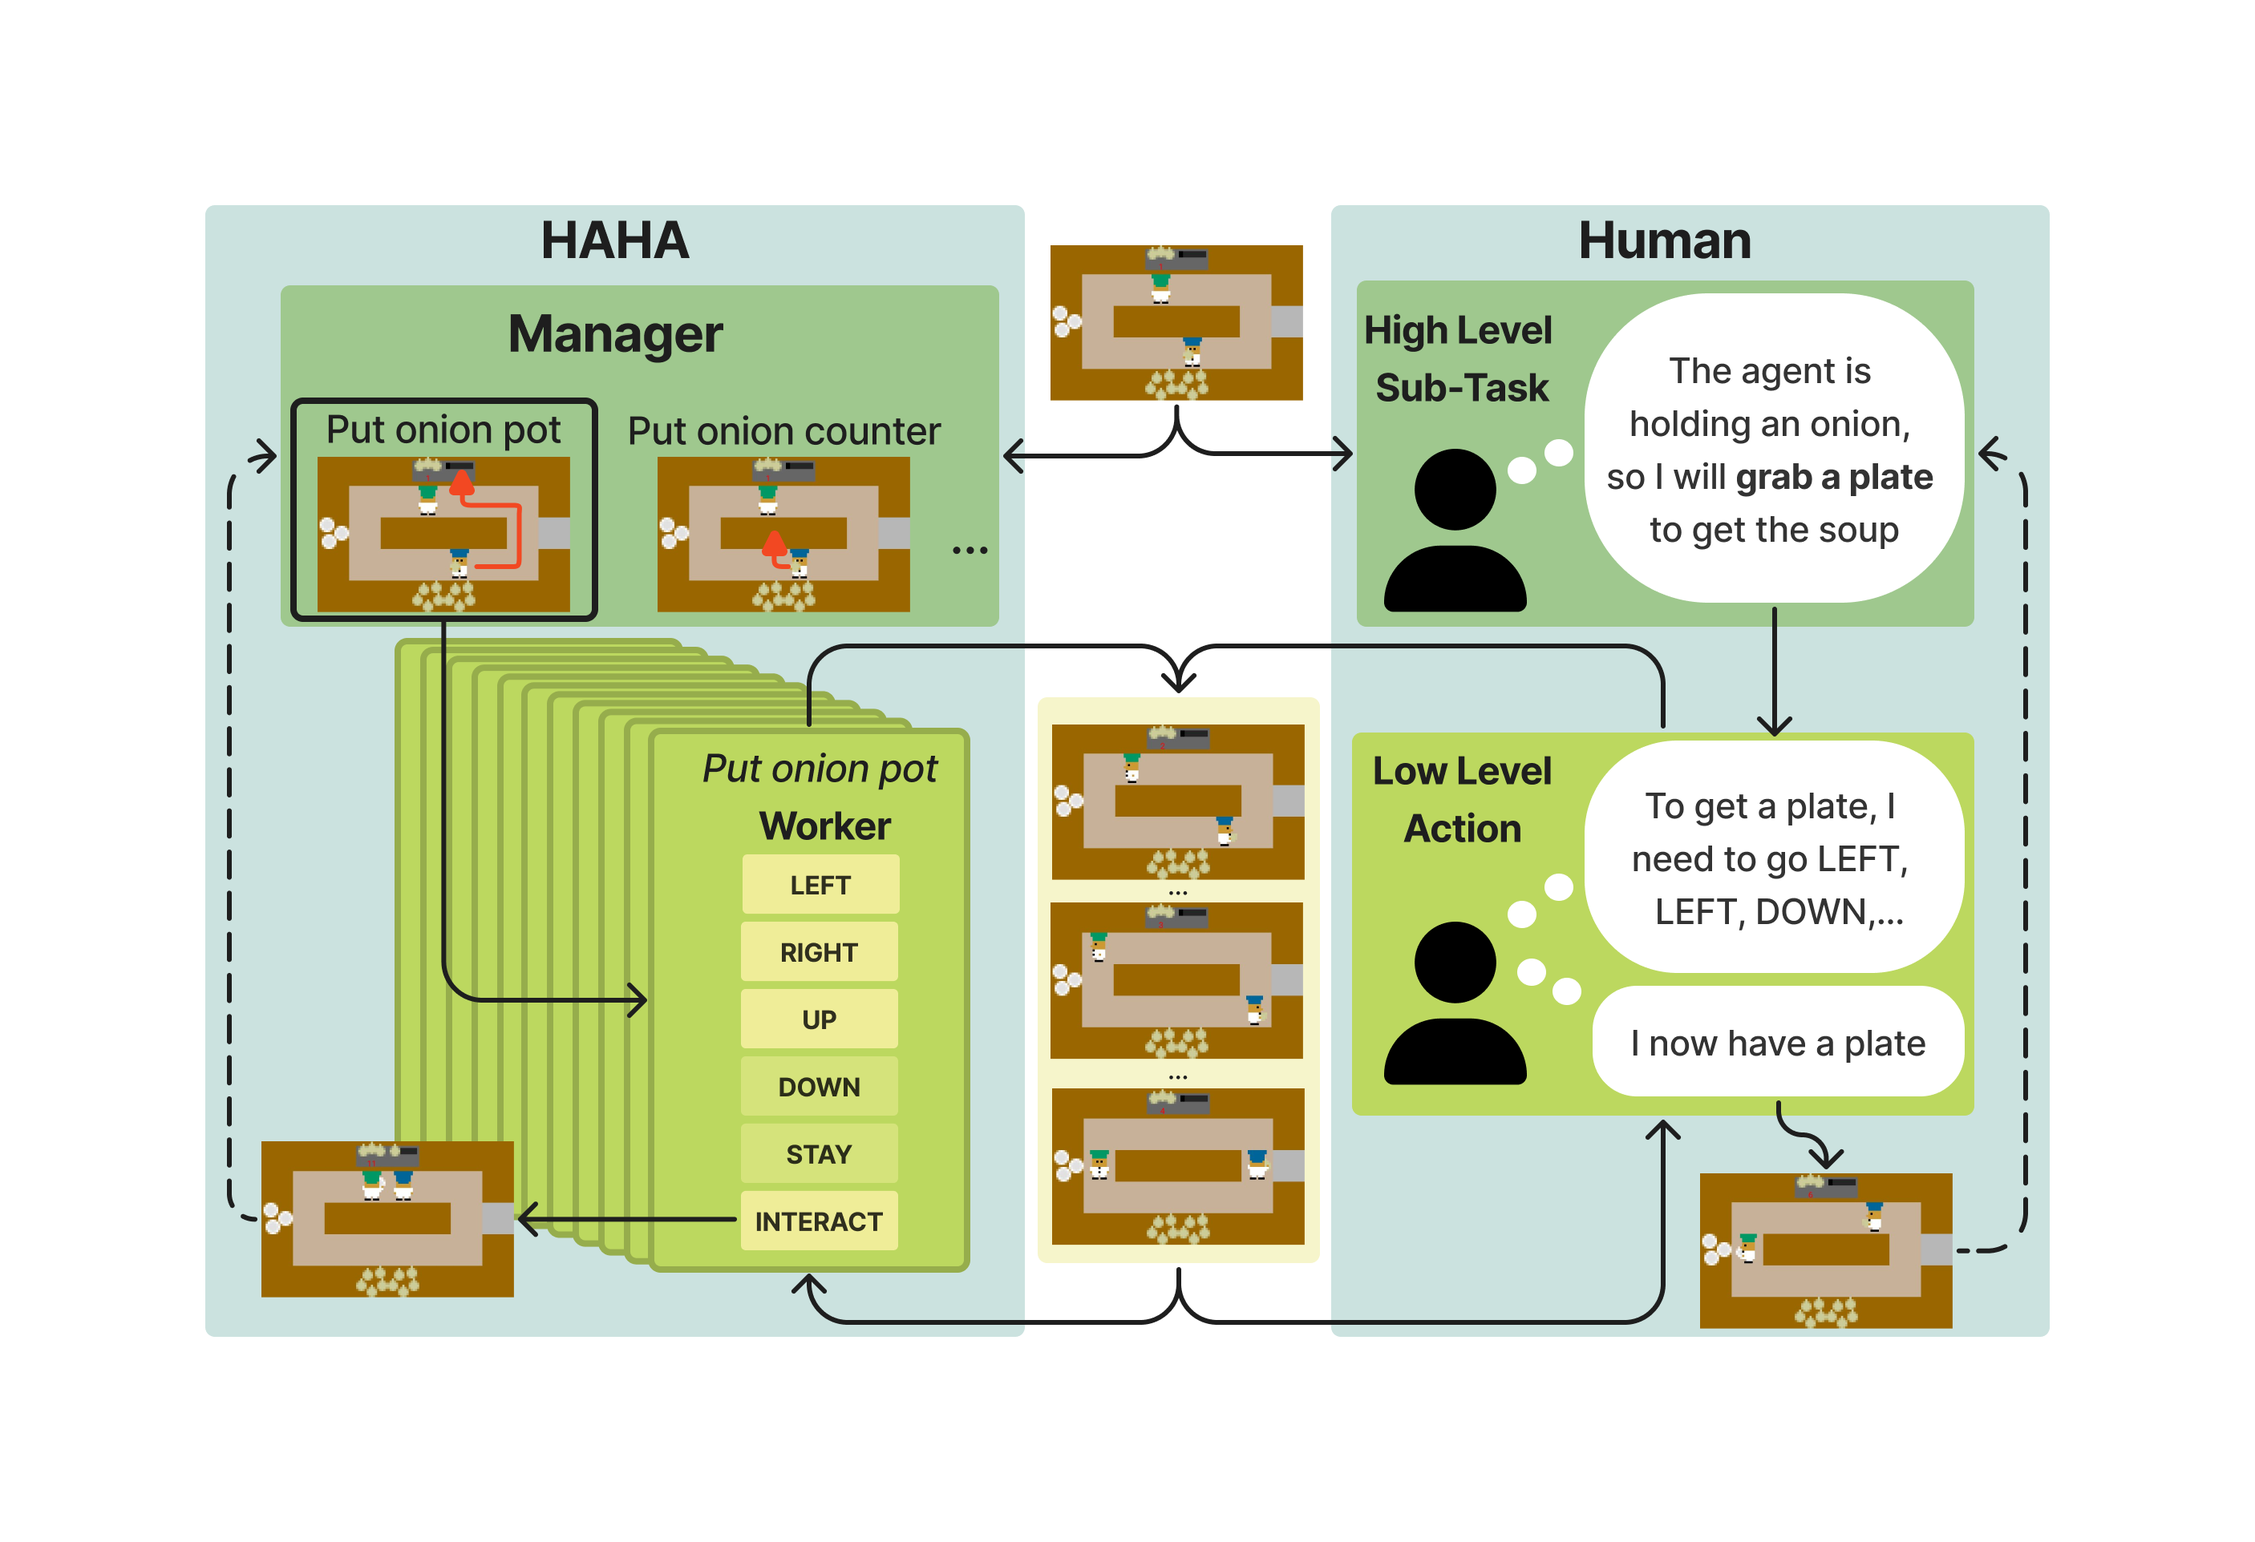
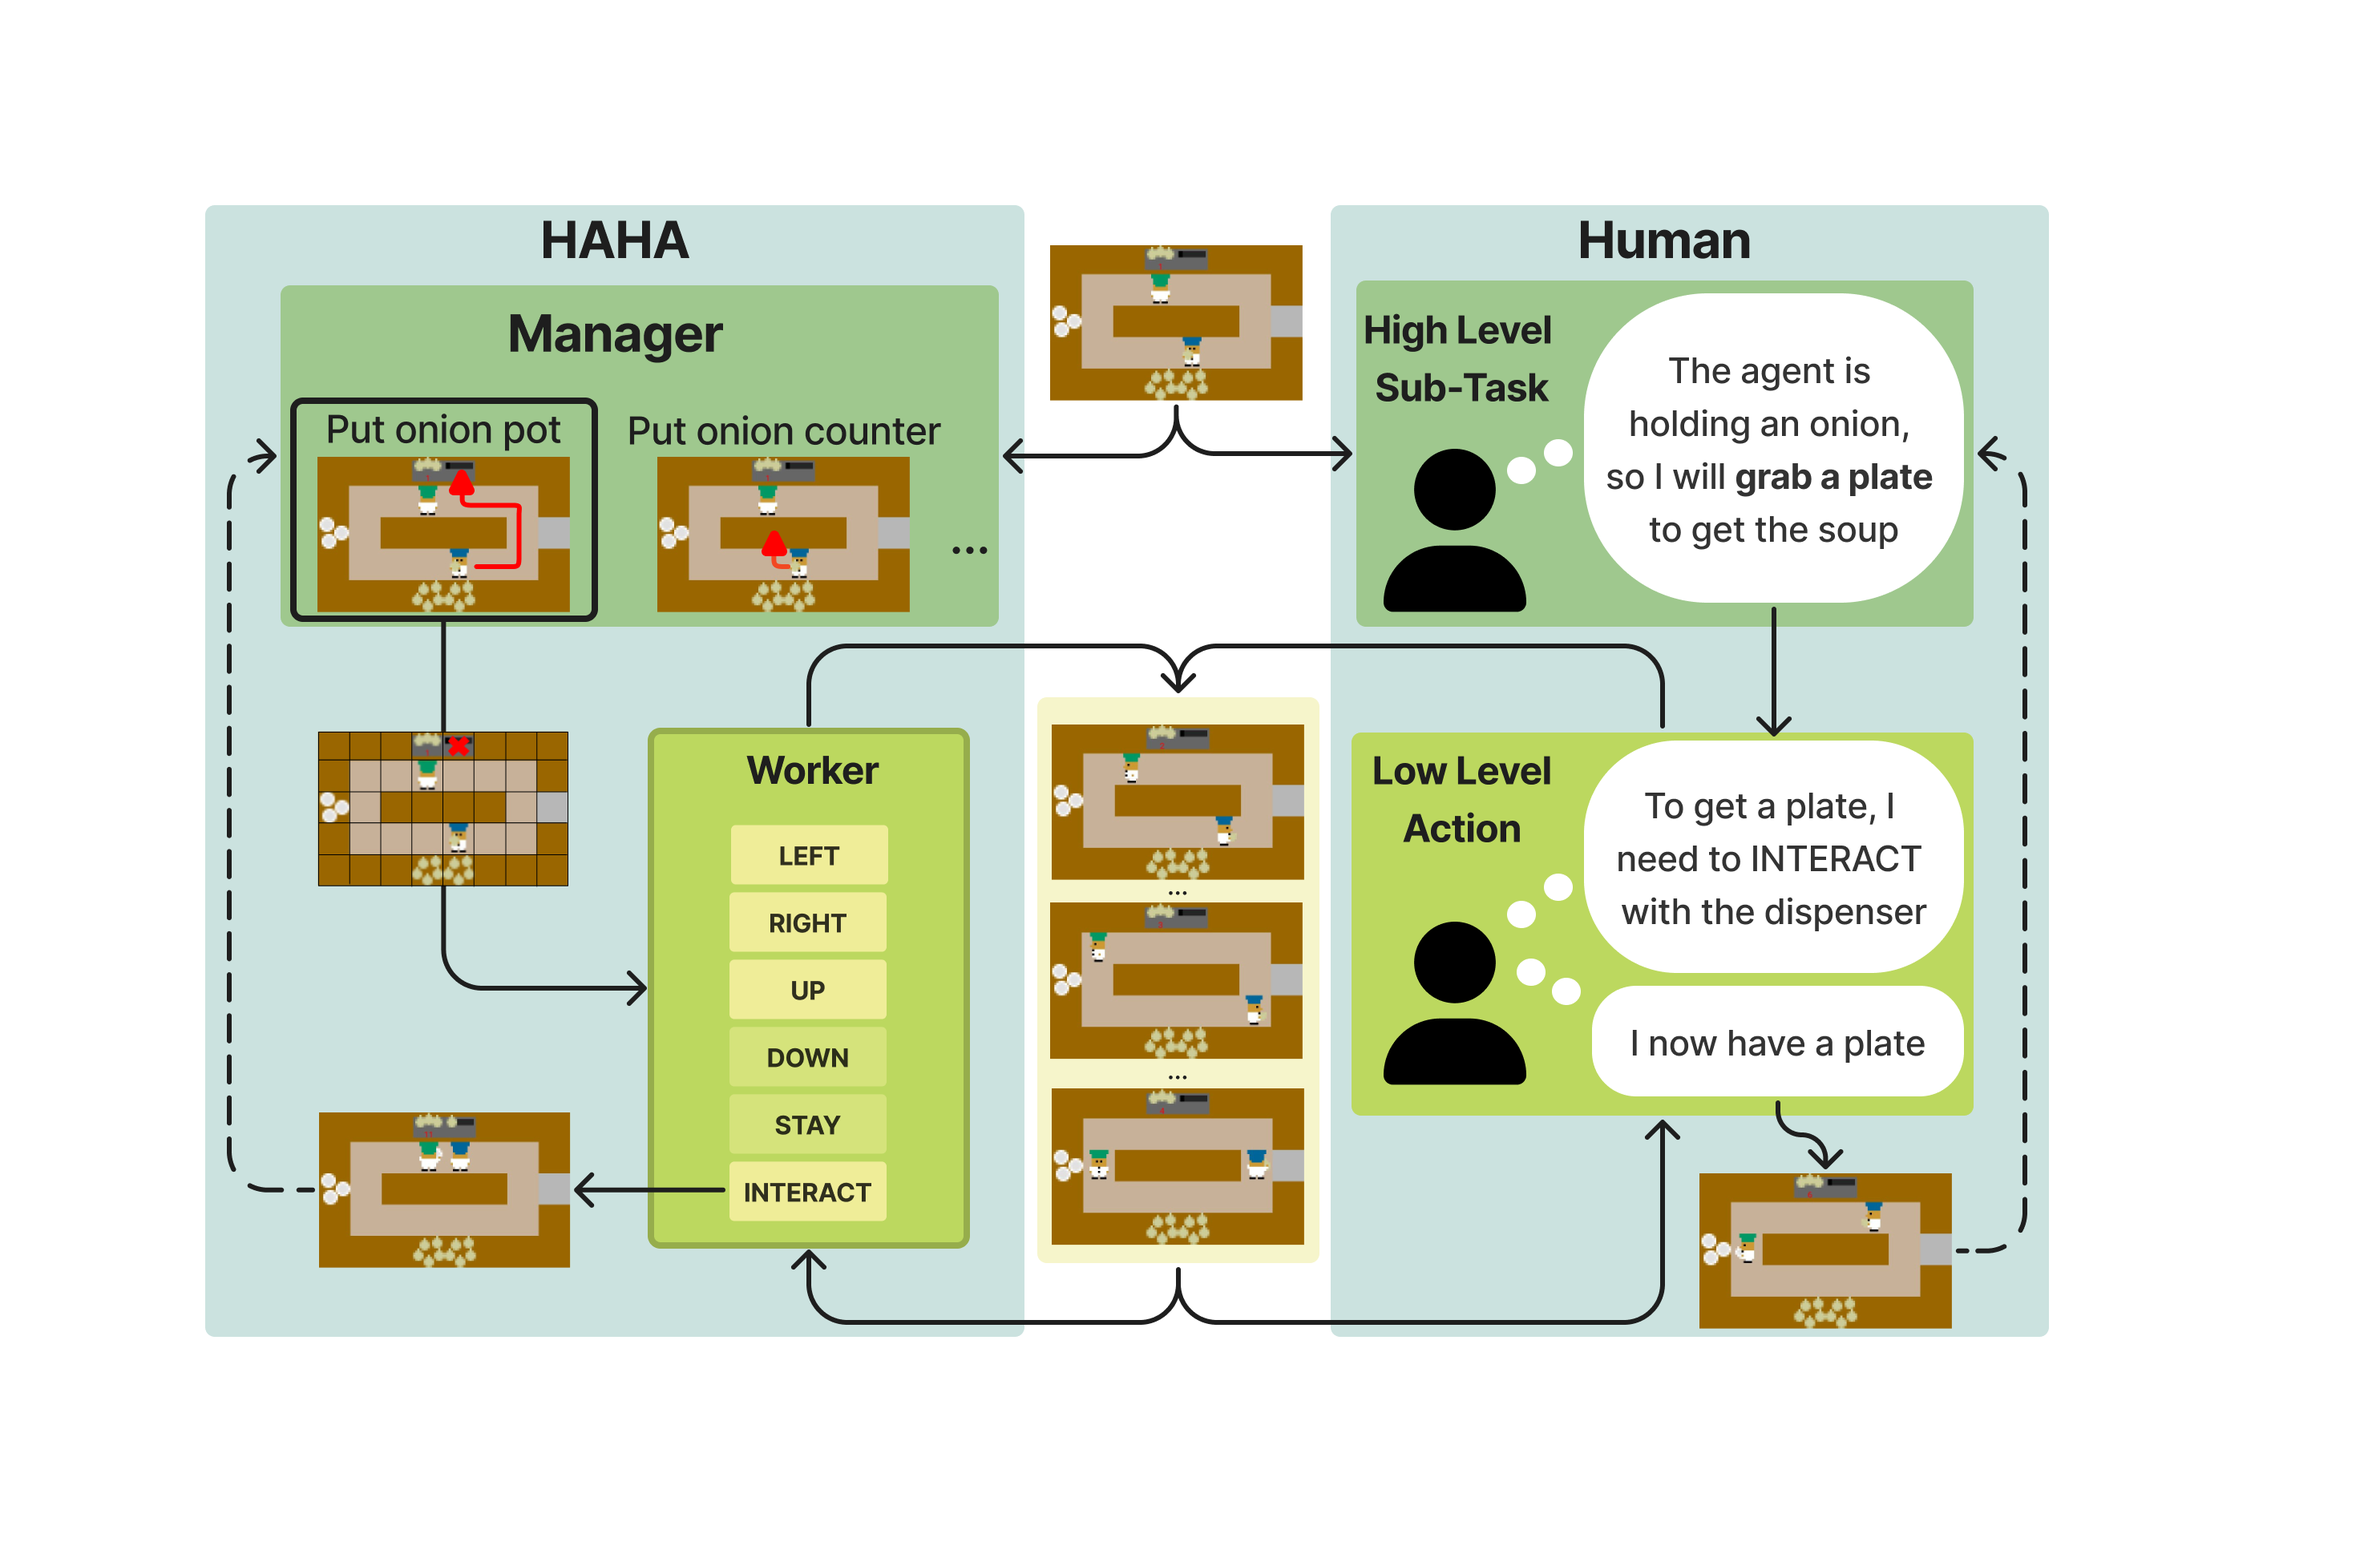
update haha and language grounding

Changed region(s): [[0.0619, 0.1247, 0.9282, 0.8732]]

diff --git a/_posts/research/subteams/2022-01-31-learning-modeling-robotics.md b/_posts/research/subteams/2022-01-31-learning-modeling-robotics.md
@@ -45,20 +45,27 @@ Moving forward, we are building hybrid models for manipulation in which physics-
     {% include post-sorter.html subtype="non-prehensile manipulation" %}
 </div>
 
-## 1.2. Natural Language Grounding and Skill Transfer
+## 1.2. Natural Language Grounding
 
 **Students:** Stéphane Aroca-Ouellette  
   
 **_Publications:_**  
  - S. Aroca-Ouellette, C. Paik, A. Roncone, and K. Kann, _"PROST: Physical Reasoning of Objects through Space and Time"_, 2021. In Findings of the Association for Computational Linguistics: ACL-IJCNLP2021, [[PDF]]({{ site.url }}/papers/2021_Aroca-Ouellette_ACL_findings.pdf) [[BIB]]({{ site.url }}/papers/2021_Aroca-Ouellette_ACL_findings.bib)
+ - C. Paik, S. Aroca-Ouellette, A. Roncone, and K. Kann, _"The World of an Octopus: How Reporting Bias Influences a Language Model’s Perception of Color"_, 2021, In Empirical Methods in Natural Language Processing: EMNLP2021, [[PDF]]({{ site.url }}/papers/2021_Paik_EMNLP.pdf) [[BIB]]({{ site.url }}/papers/2021_Paik_EMNLP.bib)
 
-Natural language is the easiest and most generalizable way for humans to specify a task, provide new information, and convey intentions. Being able to leverage language for task specification and skill transfer would greatly increase the abilities of current robots.
-Concurrently, current language models fail to understand language as humans do, which we hypothesize is caused a lack of real-world experience.
-To this end, we aim at bridging the gap between the field of robotics and NLP to produce robots that can act and learn through language, and who in turn will generate experiences for it develop a richer understanding of language.
+Natural language serves as the fundamental medium through which humans collaborate, providing a versatile framework for articulating tasks, exchanging information, and conveying intentions. 
+While modern language models have shown impressive results, it is essential to recognize a key distinction between how humans and language models acquire language.
+While humans learn language by experiencing it in the real world, present language models predominantly rely on text data alone for their learning.
+To this end, we posit that the pursuit of text-only training is at a minimum inefficient, and possibly insufficient to achieve a human-like understanding of language.
+Our initial work PROST highlighted one area where text-only models fall short --- understanding questions related to physical reasoning --- and demonstrated that scale alone would be unlikely to solve this shortcoming.
+Upon delving deeper into this issue, our next paper identified a potential underlying factor: reporting bias. 
+Due to human's experience in the world, self-evident information is often omitted from text.
+For example, if someone says "I knocked my glass off the table", most do not elaborate further with information such as "the effects of gravity pulled the glass to the ground, breaking on impact, and the making the ground wet with its content."
+Rather, we rely on our own experiences of similar events to fill in these important details.
+Having identified these limitations, we are currently investigating methods to ground language in embodiment inorder to improve the understanding of language models.
+Ultimately, we hope that these improved language models will help improve natural language task specification systems.
 
-<div class="row">
-    {% include post-sorter.html subtype="grounding_language_through_experience" %}
-</div>
+{% include image.html url="research/gl/prost_example.png" max-width="50%" description="An example question from PROST." %}
 
 
 ## 1.3. Multi-Agent Reinforcement Learning

diff --git a/_posts/research/subteams/2021-03-16-algorithmic-social-hri.md b/_posts/research/subteams/2021-03-16-algorithmic-social-hri.md
@@ -26,25 +26,23 @@ We use an interdisciplinary approach, leveraging work from cognitive learning th
 
 # 1. Projects
 
-## 1.1 Technical Fluency in Human-Agent Interaction
+## 1.1 Hierarchical Human-Agent Interaction
 
 **Students:** [Stéphane Aroca-Ouellette](https://stephao.github.io/)
 
 **_Publications:_**
 - S. Aroca-Ouellette, M. Aroca-Ouellette, U. Biswas, K. Kann, and A. Roncone, _"Hierarchical Reinforcement Learning for Ad Hoc Teaming"_ in _Proceedings of the 2023 International Conference on Autonomous Agents and Multiagent Systems (AAMAS)_, 2023. [[PDF]]({{ site.url }}/papers/2023_Aroca-Ouellette_AAMAS_HAHA_extended_abstract.pdf) [[BIB]]({{ site.url }}/papers/2023_Aroca-Ouellette_AAMAS_HAHA_extended_abstract.bib)
 
+In collaborative tasks, humans excel at adapting to their partners and converging toward an aligned strategy to maximize team success.
+This is an inherently human skill that current state-of-the-art machine learning models largely lack.
+We contend that this gap stems from the traditional focus on learning human-agent interaction from low-level primitive actions, whereas human collaboration centers around high-level strategies.
+To address this, we introduce HAHA: Hierarchical Ad Hoc Agents, a novel framework using hierarchical reinforcement learning to train an agent capable of navigating the intricacies of ad hoc teaming at a level of abstraction more akin to human collaboration.
+HAHA consists of a Worker and a Manager, which respectively focus on optimizing efficient sub-task completion and high-level team strategies.
+We evaluate HAHA in the Overcooked environment, demonstrating that it outperforms existing baselines in both quantitative and qualitative metrics, offering improved teamwork, better resilience to environmental shifts, and heightened agent intelligibility. 
+Furthermore, we show that the generalization ability of HAHA extends to changes in the environment and that our structure allows for the induction of new strategies not encountered during training.
+We posit that the advancements proposed in this paper form a crucial building block toward the realization of more secure and efficient human–AI teams.
 
-Drastic variance in human knowledge, ability, and preference result in rich diversity of human behavior. For successful integration of autonomous agents
-in human endeavours, these agents must be able to efficiently adapt to a wide range previously unseen collaborators.
-For example, when working with a less experienced teammate, an agent should likely prioritize understandable behavior over complicated behaviors in order to build trust and
-allow the teammate to adjust to the task. In contrast, when working with a more experience teammate, the agent can instead focus on more optimal behaviors. 
-To accomplish this, an agent must be able to not have a range of behaviors, but also identify the necessary
-traits of their partner.  In this stream of research, we explore how to imbue autonomous agents with these abilities.
-
-<div class="row">
-    {% include post-sorter.html subtype="haha" %}
-</div>
-
+{% include image.html url="research/haha/haha_architecture.png" max-width="60%" description="Architecture of the Hierarchical Ad Hoc Agents (HAHA). Similar to a human, the manager first selects which high-level task to accomplish next. The low-level worker then takes over to carry out the task." %}
 
 ## 1.2 Reference Dependent Risk Attitudes in HRI
 
